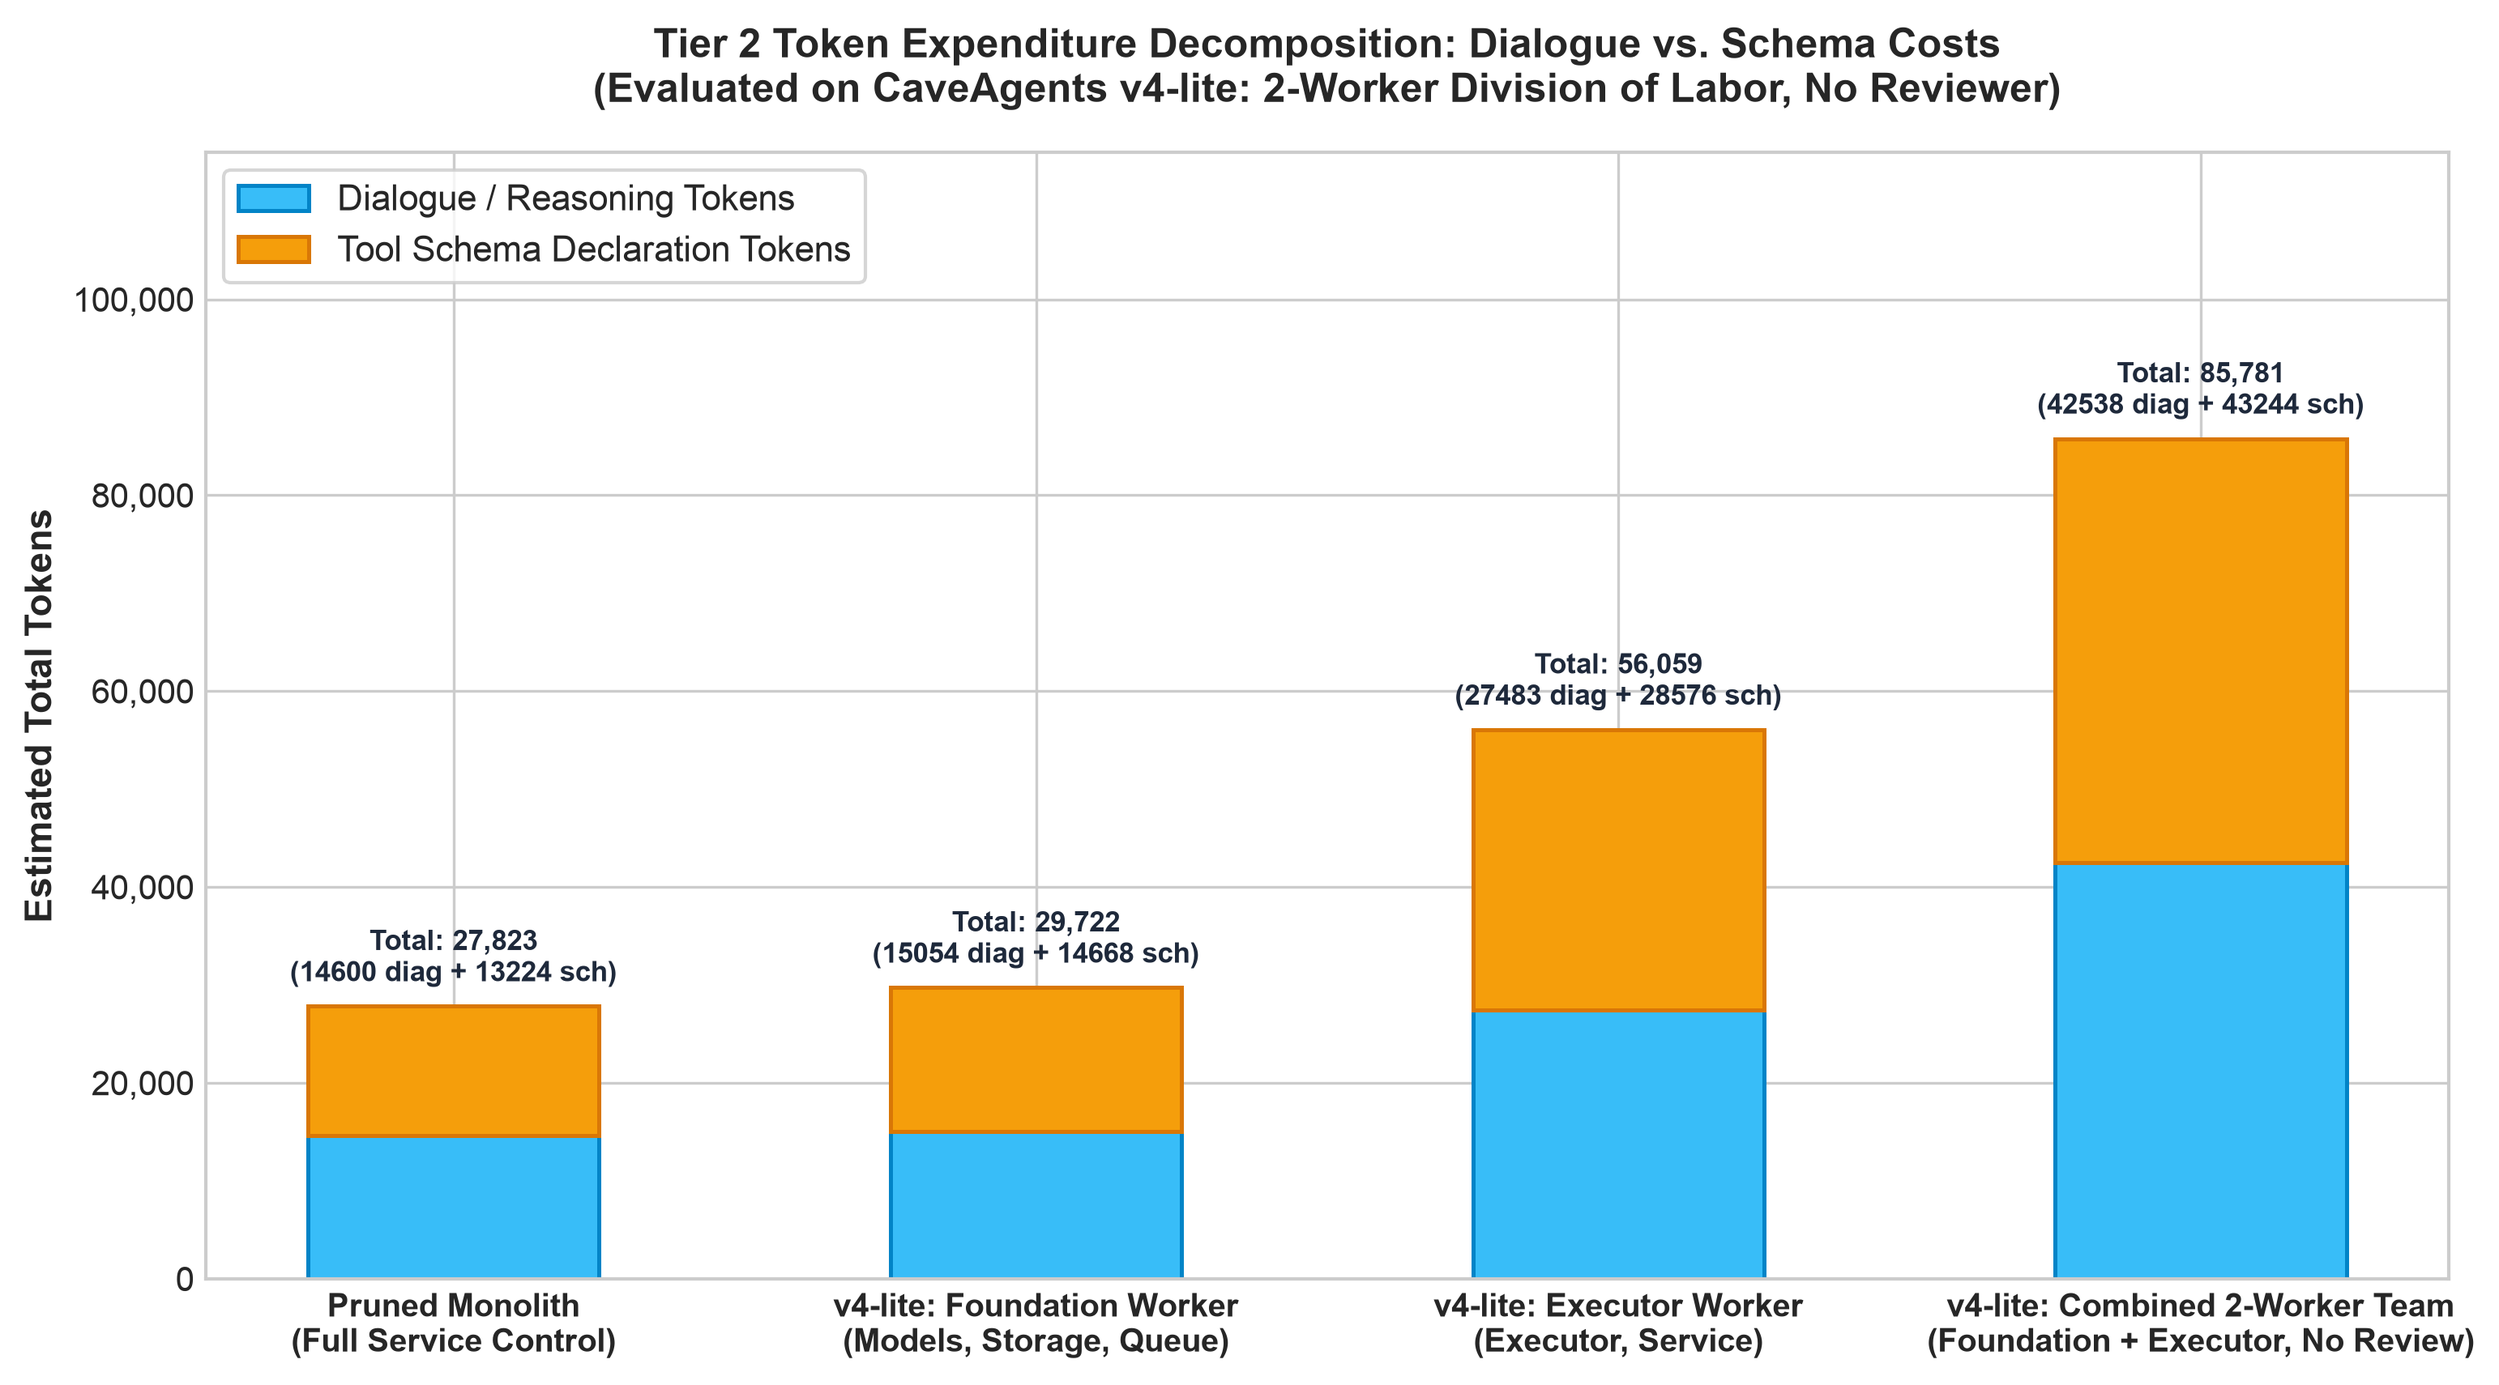
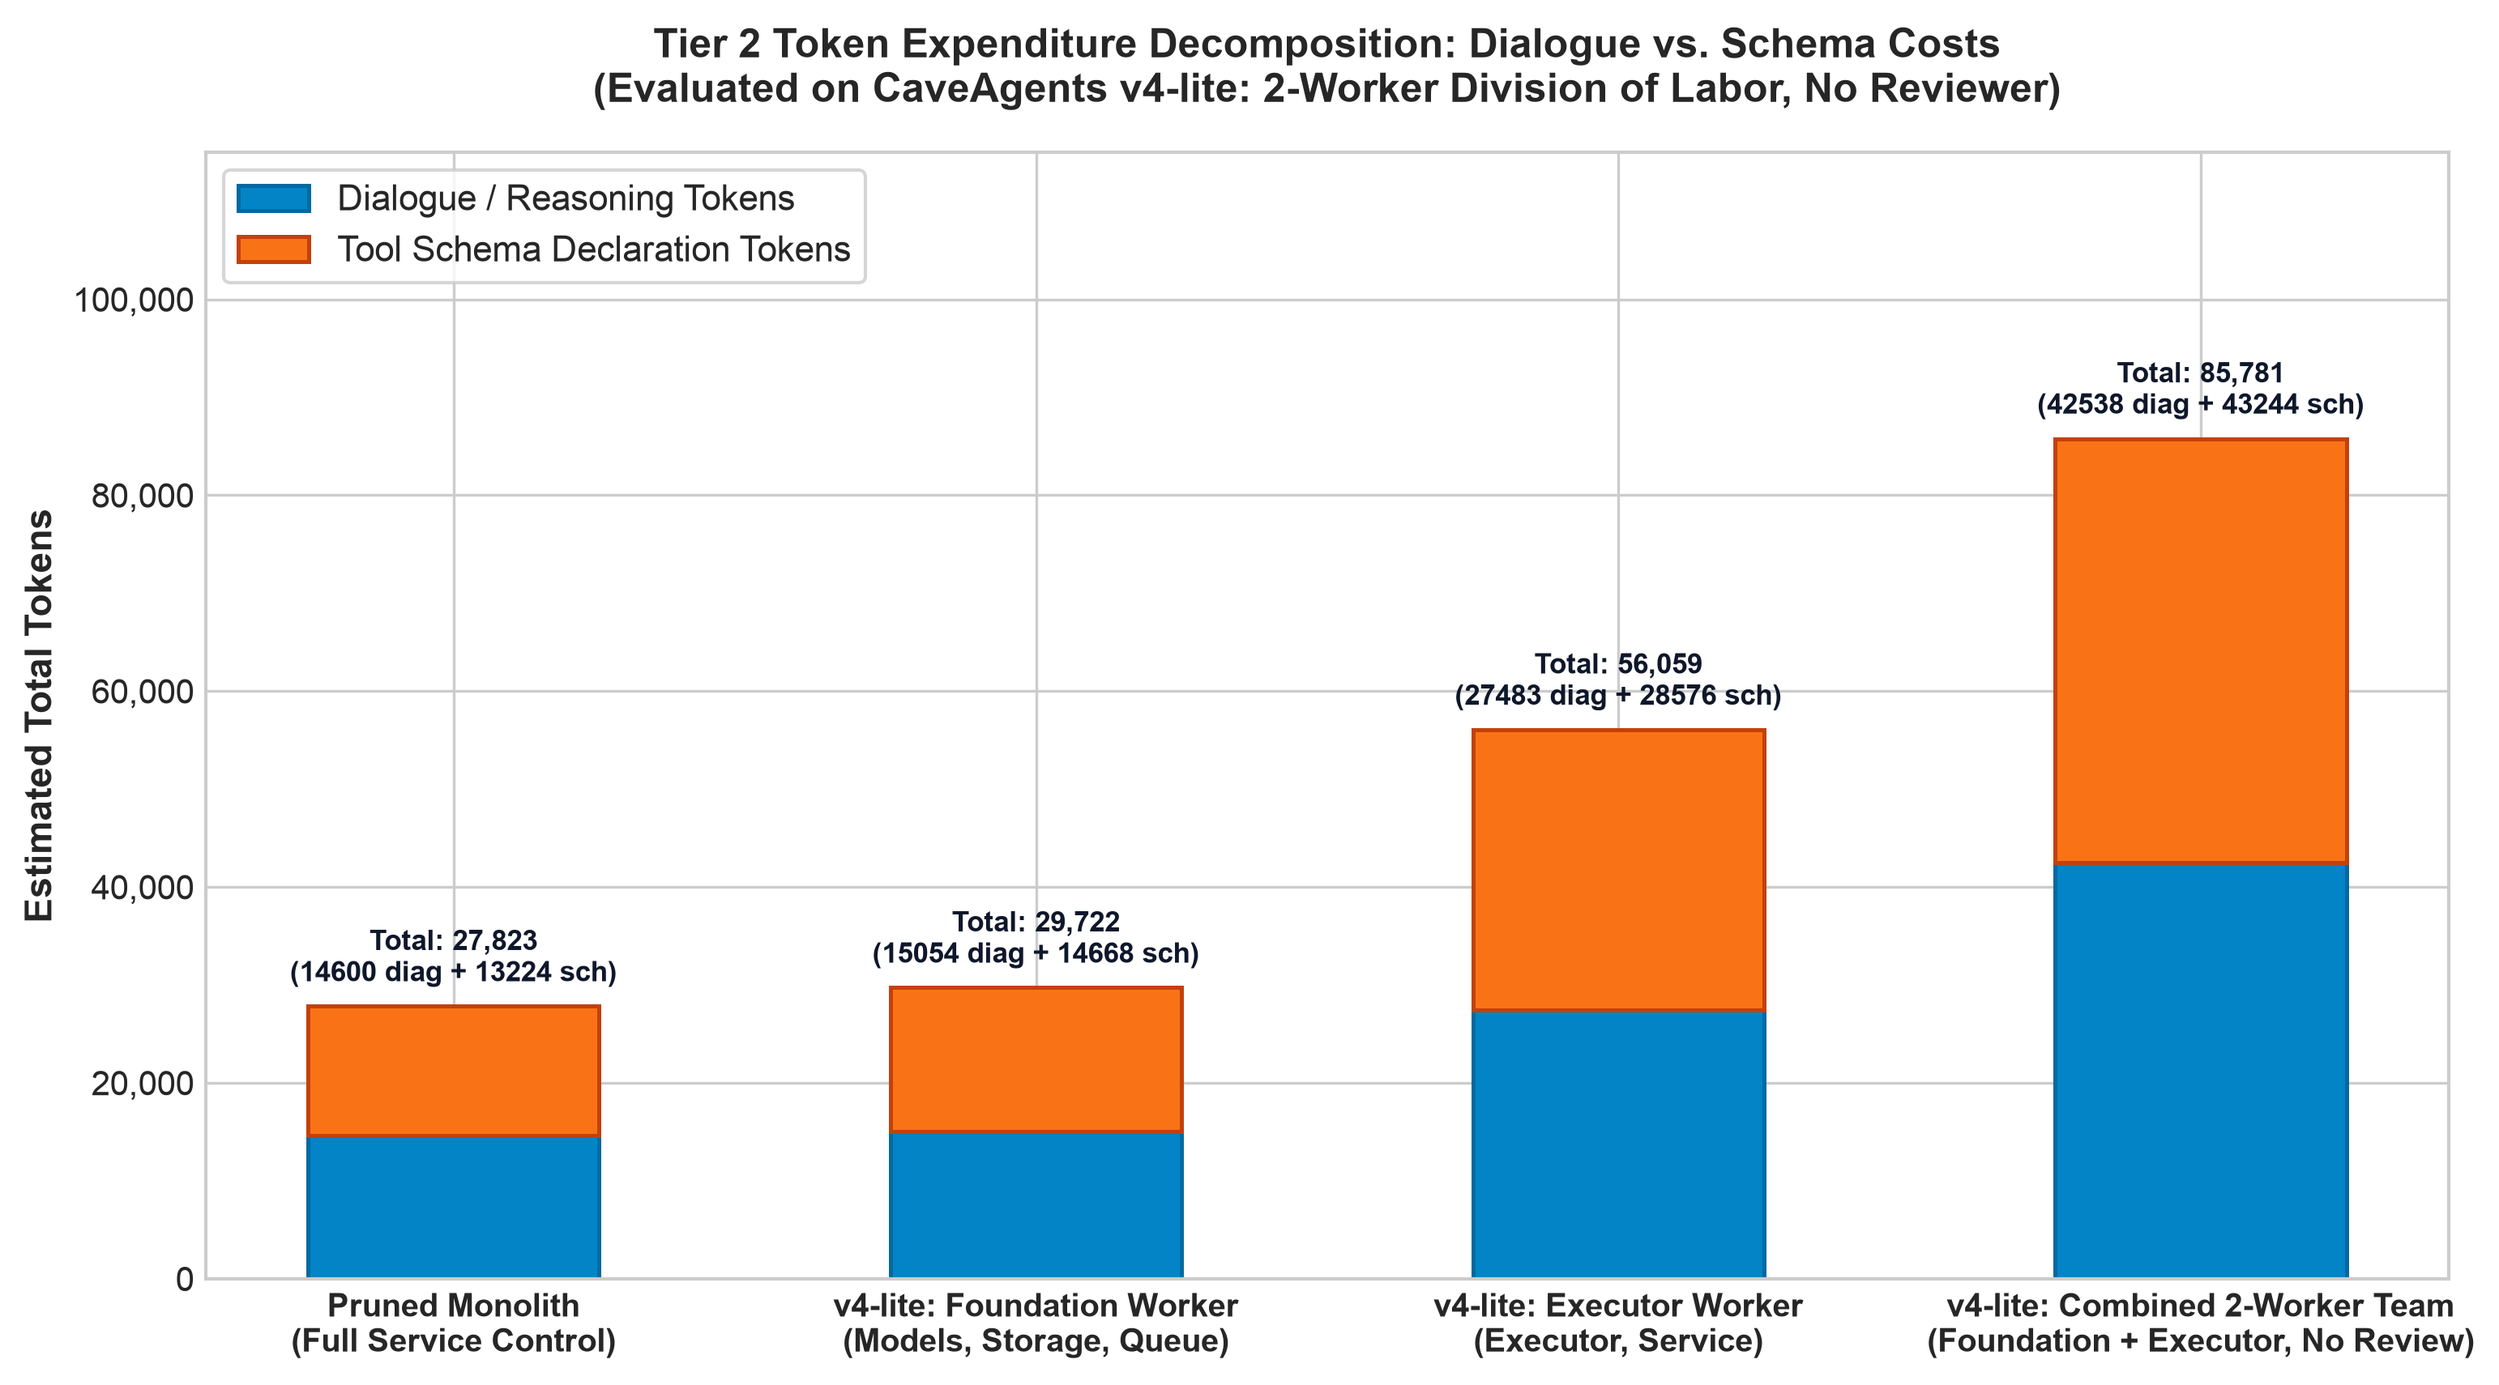
feat(viz): upgrade benchmark charts to high-contrast palette and distinct markers

diff --git a/benchmarks/tier2_service/generate_extended_charts.py b/benchmarks/tier2_service/generate_extended_charts.py
@@ -43,10 +43,10 @@ found_sch = [r["token_metrics"]["subagents"]["foundation"]["schema_tokens"] for 
 exec_diag = [r["token_metrics"]["subagents"]["executor"]["dialogue_tokens"] for r in v4_records]
 exec_sch = [r["token_metrics"]["subagents"]["executor"]["schema_tokens"] for r in v4_records]
 
-COLOR_MONO = "#0284c7"      # Blue for single agent
-COLOR_V4 = "#7c3aed"        # Purple for multi-agent team
-COLOR_FOUND = "#a855f7"     # Lighter purple for foundation
-COLOR_EXEC = "#6366f1"      # Indigo for executor
+COLOR_MONO = "#1d4ed8"      # High-contrast Cobalt Blue for single agent
+COLOR_V4 = "#e11d48"        # High-contrast Crimson/Coral for multi-agent team
+COLOR_FOUND = "#8b5cf6"     # Purple for foundation
+COLOR_EXEC = "#ec4899"      # Pink for executor
 
 plt.style.use("seaborn-v0_8-whitegrid" if "seaborn-v0_8-whitegrid" in plt.style.available else "default")
 
@@ -63,8 +63,8 @@ def make_scaling_chart():
     x = np.array([0, 1])
     width = 0.35
 
-    rects1 = ax.bar(x - width/2, [tier1_mono, tier2_mono], width, label="Pruned Monolith Control", color=COLOR_MONO, alpha=0.9, edgecolor="#0f172a", linewidth=1.2)
-    rects2 = ax.bar(x + width/2, [tier1_v4, tier2_v4], width, label="CaveAgents Teams (v4 @ T1, v4-lite @ T2)", color=COLOR_V4, alpha=0.9, edgecolor="#0f172a", linewidth=1.2)
+    rects1 = ax.bar(x - width/2, [tier1_mono, tier2_mono], width, label="Pruned Monolith Control", color=COLOR_MONO, alpha=0.92, edgecolor="#0f172a", linewidth=1.2)
+    rects2 = ax.bar(x + width/2, [tier1_v4, tier2_v4], width, label="CaveAgents Teams (v4 @ T1, v4-lite @ T2)", color=COLOR_V4, alpha=0.92, edgecolor="#0f172a", linewidth=1.2)
 
     ax.set_ylabel("Estimated Total Tokens", fontsize=11, fontweight="bold")
     ax.set_title("Cross-Tier Coordination Tax: Single Agent vs. Multi-Agent Teams", fontsize=13, fontweight="bold", pad=15)
@@ -81,7 +81,7 @@ def make_scaling_chart():
         ax.annotate(f"{int(h):,}\n(1.00x)",
                     xy=(rect.get_x() + rect.get_width() / 2, h),
                     xytext=(0, 4), textcoords="offset points",
-                    ha="center", va="bottom", fontsize=9.5, fontweight="bold", color="#0369a1")
+                    ha="center", va="bottom", fontsize=9.5, fontweight="bold", color="#1d4ed8")
 
     for i, rect in enumerate(rects2):
         h = rect.get_height()
@@ -89,12 +89,12 @@ def make_scaling_chart():
         ax.annotate(f"{int(h):,}\n({ratio:.2f}x, +{(ratio-1)*100:.1f}%)",
                     xy=(rect.get_x() + rect.get_width() / 2, h),
                     xytext=(0, 4), textcoords="offset points",
-                    ha="center", va="bottom", fontsize=9.5, fontweight="bold", color="#5b21b6")
+                    ha="center", va="bottom", fontsize=9.5, fontweight="bold", color="#be123c")
 
     # Add insight callout
     ax.text(0.5, 96000, "Minimal 2-worker serial handoff (v4-lite, no review) still costs 3.08x (+208%)\nZero demonstrated benefit on this task: latency parity (serial blocking),\n159/160 vs 160/160 pass rate is within noise (single defect in T08)",
             ha="center", va="center", fontsize=9.0, fontweight="bold",
-            bbox=dict(boxstyle="round,pad=0.5", facecolor="#fef3c7", edgecolor="#f59e0b", alpha=0.95))
+            bbox=dict(boxstyle="round,pad=0.5", facecolor="#fffbeb", edgecolor="#f59e0b", alpha=0.95))
 
     ax.set_ylim(0, 118000)
     ax.legend(loc="upper left", frameon=True, fontsize=10.0)
@@ -123,8 +123,8 @@ def make_breakdown_chart():
     x = np.arange(len(categories))
     width = 0.5
 
-    p1 = ax.bar(x, dialogues, width, label="Dialogue / Reasoning Tokens", color="#38bdf8", edgecolor="#0284c7", linewidth=1.2)
-    p2 = ax.bar(x, schemas, width, bottom=dialogues, label="Tool Schema Declaration Tokens", color="#f59e0b", edgecolor="#d97706", linewidth=1.2)
+    p1 = ax.bar(x, dialogues, width, label="Dialogue / Reasoning Tokens", color="#0284c7", edgecolor="#0369a1", linewidth=1.2)
+    p2 = ax.bar(x, schemas, width, bottom=dialogues, label="Tool Schema Declaration Tokens", color="#f97316", edgecolor="#c2410c", linewidth=1.2)
 
     ax.set_ylabel("Estimated Total Tokens", fontsize=11, fontweight="bold")
     ax.set_title("Tier 2 Token Expenditure Decomposition: Dialogue vs. Schema Costs\n(Evaluated on CaveAgents v4-lite: 2-Worker Division of Labor, No Reviewer)", fontsize=12.0, fontweight="bold", pad=15)
@@ -138,7 +138,7 @@ def make_breakdown_chart():
         ax.annotate(f"Total: {int(tot):,}\n({dialogues[i]:.0f} diag + {schemas[i]:.0f} sch)",
                     xy=(x[i], tot),
                     xytext=(0, 5), textcoords="offset points",
-                    ha="center", va="bottom", fontsize=8.5, fontweight="bold", color="#1e293b")
+                    ha="center", va="bottom", fontsize=8.5, fontweight="bold", color="#0f172a")
 
     ax.set_ylim(0, 115000)
     ax.legend(loc="upper left", frameon=True, fontsize=10.5)
@@ -154,10 +154,10 @@ def make_pareto_chart():
     """Chart 3: Latency vs Token Expenditure (Cost-Time Efficiency Pareto)."""
     fig, ax = plt.subplots(figsize=(10, 5.8), dpi=300)
 
-    # Plot Monolith trials
-    ax.scatter(mono_lat, mono_tokens, color=COLOR_MONO, s=90, alpha=0.85, edgecolors="#0f172a", linewidth=1.2, label="Pruned Monolith Trials (n=10)", zorder=3)
-    # Plot Team trials
-    ax.scatter(v4_lat, v4_tokens, color=COLOR_V4, s=100, marker="D", alpha=0.85, edgecolors="#0f172a", linewidth=1.2, label="CaveAgents v4-lite Team (2 Workers, n=10)", zorder=3)
+    # Plot Monolith trials (circles)
+    ax.scatter(mono_lat, mono_tokens, color="#1d4ed8", s=100, alpha=0.88, edgecolors="#0f172a", linewidth=1.2, label="Pruned Monolith Trials (n=10)", zorder=3)
+    # Plot Team trials (diamonds)
+    ax.scatter(v4_lat, v4_tokens, color="#e11d48", s=110, marker="D", alpha=0.88, edgecolors="#0f172a", linewidth=1.2, label="CaveAgents v4-lite Team (2 Workers, n=10)", zorder=3)
 
     # Centroid markers
     mean_mono_lat = np.mean(mono_lat)
@@ -165,12 +165,12 @@ def make_pareto_chart():
     mean_v4_lat = np.mean(v4_lat)
     mean_v4_tok = np.mean(v4_tokens)
 
-    ax.scatter([mean_mono_lat], [mean_mono_tok], color="#0284c7", s=250, marker="*", edgecolors="#0f172a", linewidth=1.5, zorder=4, label=f"Monolith Mean ({mean_mono_lat:.1f}s, {int(mean_mono_tok):,} tok)")
-    ax.scatter([mean_v4_lat], [mean_v4_tok], color="#7c3aed", s=250, marker="*", edgecolors="#0f172a", linewidth=1.5, zorder=4, label=f"v4-lite Team Mean ({mean_v4_lat:.1f}s, {int(mean_v4_tok):,} tok)")
+    ax.scatter([mean_mono_lat], [mean_mono_tok], color="#1d4ed8", s=300, marker="*", edgecolors="#ffffff", linewidth=2.0, zorder=5, label=f"Monolith Mean ({mean_mono_lat:.1f}s, {int(mean_mono_tok):,} tok)")
+    ax.scatter([mean_v4_lat], [mean_v4_tok], color="#e11d48", s=300, marker="*", edgecolors="#ffffff", linewidth=2.0, zorder=5, label=f"v4-lite Team Mean ({mean_v4_lat:.1f}s, {int(mean_v4_tok):,} tok)")
 
     # Latency parity line
-    ax.axvline(mean_mono_lat, color="#0284c7", linestyle="--", alpha=0.4, linewidth=1.2)
-    ax.axvline(mean_v4_lat, color="#7c3aed", linestyle=":", alpha=0.4, linewidth=1.2)
+    ax.axvline(mean_mono_lat, color="#1d4ed8", linestyle="--", alpha=0.55, linewidth=1.5)
+    ax.axvline(mean_v4_lat, color="#e11d48", linestyle=":", alpha=0.55, linewidth=1.5)
 
     ax.set_xlabel("Wall-Clock Execution Time (Seconds)", fontsize=11, fontweight="bold")
     ax.set_ylabel("Estimated Total Tokens", fontsize=11, fontweight="bold")
@@ -180,7 +180,7 @@ def make_pareto_chart():
     # Annotation
     ax.text(175, 45000, "Functionally Serialized via Data-Flow Dependency\nIdentical Latency Band (~120s–230s) | 3.08x Token Separation\nZero Demonstrated Benefit: Latency Wash & Quality Parity",
             fontsize=9.0, fontweight="bold", color="#1e293b",
-            bbox=dict(boxstyle="round,pad=0.5", facecolor="#e0f2fe", edgecolor="#0284c7", alpha=0.9))
+            bbox=dict(boxstyle="round,pad=0.5", facecolor="#eff6ff", edgecolor="#1d4ed8", alpha=0.92))
 
     ax.legend(loc="upper left", frameon=True, fontsize=9.0)
     ax.set_ylim(15000, 120000)

diff --git a/benchmarks/tier2_service/generate_tier2_chart.py b/benchmarks/tier2_service/generate_tier2_chart.py
@@ -32,28 +32,33 @@ v4_hid = [r["test_results"]["hidden"]["passed"] for r in v4_records]
 plt.style.use("seaborn-v0_8-whitegrid" if "seaborn-v0_8-whitegrid" in plt.style.available else "default")
 fig, (ax1, ax2) = plt.subplots(1, 2, figsize=(14, 5.8), dpi=300)
 
-COLOR_MONO = "#0284c7"  # Blue for single agent
-COLOR_V4 = "#7c3aed"    # Purple for multi-agent team
+COLOR_MONO = "#1d4ed8"  # High-contrast Cobalt Blue for single agent
+COLOR_V4 = "#e11d48"    # High-contrast Crimson/Coral for multi-agent team
 
 # Subplot 1: Token Expenditure Distribution
 bp1 = ax1.boxplot(
     [mono_tokens, v4_tokens],
     tick_labels=["Pruned Mono (Control)\n[n=10]", "CaveAgents v4-lite (2-Worker Team)\n[No Reviewer, n=10]"],
     patch_artist=True,
-    widths=0.45,
-    boxprops=dict(linewidth=1.2),
-    medianprops=dict(color="#0f172a", linewidth=2.0)
+    widths=0.42,
+    showfliers=False,
+    boxprops=dict(linewidth=1.4, edgecolor="#0f172a"),
+    whiskerprops=dict(linewidth=1.2, color="#0f172a"),
+    capprops=dict(linewidth=1.2, color="#0f172a"),
+    medianprops=dict(color="#ffffff", linewidth=2.5)
 )
 bp1["boxes"][0].set_facecolor(COLOR_MONO)
-bp1["boxes"][0].set_alpha(0.85)
+bp1["boxes"][0].set_alpha(0.88)
 bp1["boxes"][1].set_facecolor(COLOR_V4)
-bp1["boxes"][1].set_alpha(0.85)
+bp1["boxes"][1].set_alpha(0.88)
 
-# Overlay individual trial points
+# Overlay individual trial points with distinct marker shapes and contrast rims
 np.random.seed(42)
-for i, tokens in enumerate([mono_tokens, v4_tokens]):
-    x = np.random.normal(i + 1, 0.04, size=len(tokens))
-    ax1.plot(x, tokens, "o", color="#0f172a", alpha=0.7, markersize=6)
+x_mono = np.random.normal(1, 0.04, size=len(mono_tokens))
+ax1.plot(x_mono, mono_tokens, "o", markerfacecolor="#93c5fd", markeredgecolor="#0f172a", markeredgewidth=1.2, markersize=7.5, alpha=0.95, zorder=5)
+
+x_v4 = np.random.normal(2, 0.04, size=len(v4_tokens))
+ax1.plot(x_v4, v4_tokens, "D", markerfacecolor="#fca5a5", markeredgecolor="#0f172a", markeredgewidth=1.2, markersize=7.0, alpha=0.95, zorder=5)
 
 mono_mean = np.mean(mono_tokens)
 v4_mean = np.mean(v4_tokens)
@@ -68,18 +73,25 @@ bp2 = ax2.boxplot(
     [mono_lat, v4_lat],
     tick_labels=["Pruned Mono (Control)\n[n=10]", "CaveAgents v4-lite (2-Worker Team)\n[No Reviewer, n=10]"],
     patch_artist=True,
-    widths=0.45,
-    boxprops=dict(linewidth=1.2),
-    medianprops=dict(color="#0f172a", linewidth=2.0)
+    widths=0.42,
+    showfliers=False,
+    boxprops=dict(linewidth=1.4, edgecolor="#0f172a"),
+    whiskerprops=dict(linewidth=1.2, color="#0f172a"),
+    capprops=dict(linewidth=1.2, color="#0f172a"),
+    medianprops=dict(color="#ffffff", linewidth=2.5)
 )
 bp2["boxes"][0].set_facecolor(COLOR_MONO)
-bp2["boxes"][0].set_alpha(0.85)
+bp2["boxes"][0].set_alpha(0.88)
 bp2["boxes"][1].set_facecolor(COLOR_V4)
-bp2["boxes"][1].set_alpha(0.85)
+bp2["boxes"][1].set_alpha(0.88)
 
-for i, lats in enumerate([mono_lat, v4_lat]):
-    x = np.random.normal(i + 1, 0.04, size=len(lats))
-    ax2.plot(x, lats, "o", color="#0f172a", alpha=0.7, markersize=6)
+# Overlay individual trial latency points
+np.random.seed(42)
+x_mono_lat = np.random.normal(1, 0.04, size=len(mono_lat))
+ax2.plot(x_mono_lat, mono_lat, "o", markerfacecolor="#93c5fd", markeredgecolor="#0f172a", markeredgewidth=1.2, markersize=7.5, alpha=0.95, zorder=5)
+
+x_v4_lat = np.random.normal(2, 0.04, size=len(v4_lat))
+ax2.plot(x_v4_lat, v4_lat, "D", markerfacecolor="#fca5a5", markeredgecolor="#0f172a", markeredgewidth=1.2, markersize=7.0, alpha=0.95, zorder=5)
 
 mono_lat_mean = np.mean(mono_lat)
 v4_lat_mean = np.mean(v4_lat)
@@ -88,8 +100,8 @@ lat_ratio = v4_lat_mean / mono_lat_mean
 ax2.set_ylabel("Wall-Clock Latency (Seconds)", fontsize=11, fontweight="bold")
 ax2.set_title(f"Wall-Clock Execution Time: Parity at {lat_ratio:.2f}x ({v4_lat_mean:.1f}s vs {mono_lat_mean:.1f}s)\n[Functionally Serialized: Executor Polled Waiting for Foundation Models]", fontsize=11, fontweight="bold")
 
-patch_mono = mpatches.Patch(facecolor=COLOR_MONO, edgecolor="#1e293b", label="Pruned Single Agent (159/160 passed; 1 timeout cancellation defect in T08)")
-patch_v4 = mpatches.Patch(facecolor=COLOR_V4, edgecolor="#1e293b", label="CaveAgents v4-lite (2 Workers: Foundation + Executor, No Review; 160/160 passed)")
+patch_mono = mpatches.Patch(facecolor=COLOR_MONO, edgecolor="#0f172a", label="Pruned Single Agent (159/160 passed; 1 timeout cancellation defect in T08)")
+patch_v4 = mpatches.Patch(facecolor=COLOR_V4, edgecolor="#0f172a", label="CaveAgents v4-lite (2 Workers: Foundation + Executor, No Review; 160/160 passed)")
 fig.legend(handles=[patch_mono, patch_v4], loc="lower center", ncol=2, frameon=True, fontsize=10, bbox_to_anchor=(0.5, -0.06))
 
 plt.suptitle("Tier 2 Multi-File Service Benchmark: Pruned Monolith vs. CaveAgents v4-lite (n=10 per Arm, N=20 Total)", fontsize=13, fontweight="bold", y=1.02)

diff --git a/scripts/generate_charts.py b/scripts/generate_charts.py
@@ -30,8 +30,8 @@ def generate_benchmark_chart() -> Path:
     tokens = [11381, 16285, 26784, 30241, 50395, 91432, 109984, 143219, 154998]
     import matplotlib.patches as mpatches
 
-    COLOR_SINGLE = "#0284c7"  # Sky blue for single-agent architectures
-    COLOR_TEAM = "#7c3aed"    # Purple for multi-agent team architectures
+    COLOR_SINGLE = "#1d4ed8"  # High-contrast Cobalt Blue for single-agent architectures
+    COLOR_TEAM = "#e11d48"    # High-contrast Crimson/Coral for multi-agent team architectures
 
     colors = [
         COLOR_SINGLE,  # Pruned Monolith Control (Single)
